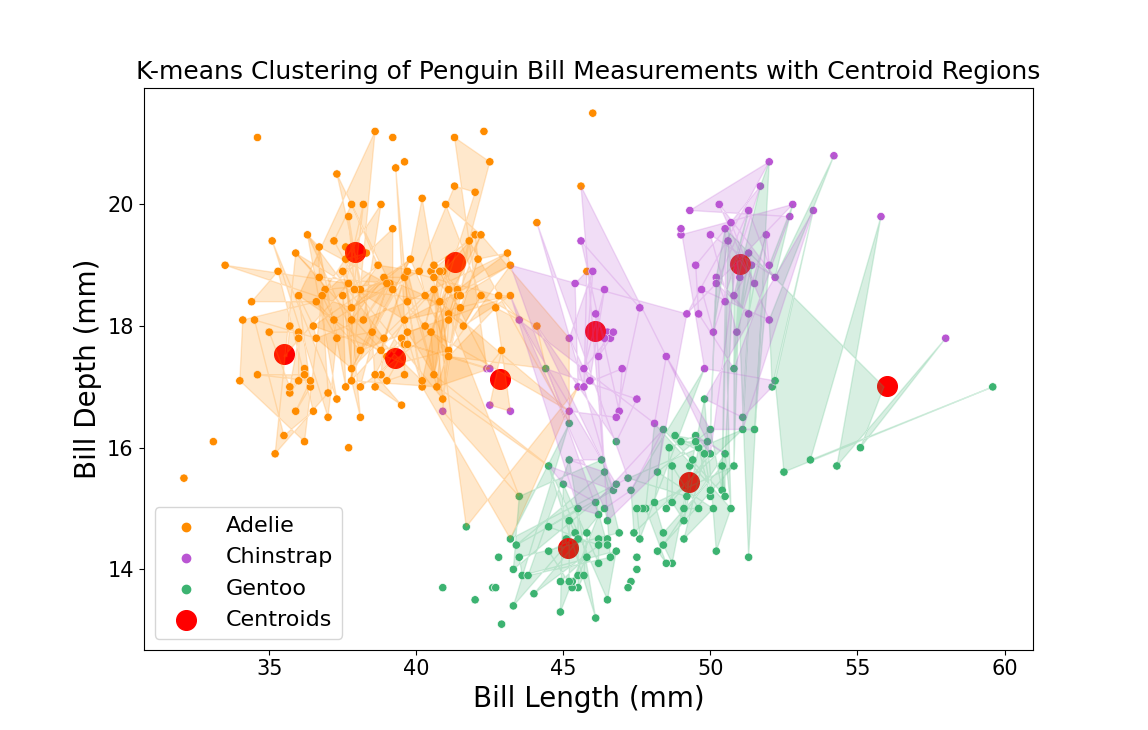
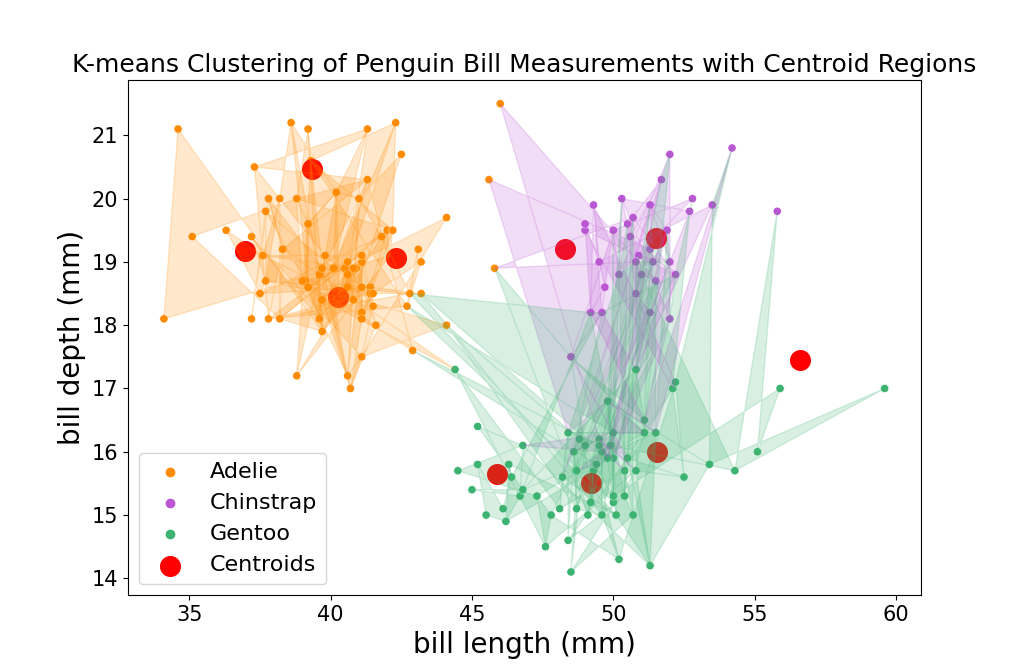
kmeans sex and plotting labels

diff --git a/kmeans/kmeans elbow and silhouette.py b/kmeans/kmeans elbow and silhouette.py
@@ -65,8 +65,8 @@ fig, axs = plt.subplots(1, 2, figsize=(14, 6))
 for species, color in custom_palette.items():
     points = features_train[labels_train == species]
     axs[0].scatter(points[:, 0], points[:, 1], c=color, label=f'{species}')
-axs[0].set_xlabel('Bill Length (scaled)')
-axs[0].set_ylabel('Bill Depth (scaled)')
+axs[0].set_xlabel('bill length (scaled)')
+axs[0].set_ylabel('bill depth (scaled)')
 axs[0].set_title('Training Set Clusters')
 axs[0].legend()
 
@@ -137,8 +137,8 @@ for k in range(1, K+1):
 # Plot elbow plot
 plt.figure(figsize=(10,6))
 plt.plot(range(1, K+1), inertias, 'bx-')
-plt.xlabel('k (Number of clusters)')
-plt.ylabel('Sum of squared distances (Inertia)')
+plt.xlabel('k (number of clusters)')
+plt.ylabel('sum of squared distances (inertia)')
 plt.title('Elbow Method For Optimal k')
 plt.show()
 temp_inertias = inertias
@@ -378,9 +378,9 @@ print(inertias)
 # Plot elbow plot
 plt.figure(figsize=(10,6))
 plt.plot(range(1, K+1), temp_inertias, 'bx-')
-plt.xlabel('k (Number of clusters)')
-plt.ylabel('Sum of squared distances (Inertia)')
-plt.title('Elbow Method For Optimal k')
+plt.xlabel('k (number of clusters)')
+plt.ylabel('sum of squared distances (inertia)')
+plt.title('elbow Method For Optimal k')
 plt.show()
 
 
@@ -399,8 +399,8 @@ for k in k_values:
 plt.figure(figsize=(8, 6))
 plt.plot(k_values, silhouette_scores, marker='o')
 plt.title('Silhouette Scores for Various Numbers of Clusters')
-plt.xlabel('Number of Clusters, k')
-plt.ylabel('Silhouette Score')
+plt.xlabel('number of clusters, k')
+plt.ylabel('silhouette score')
 plt.xticks(k_values)
 plt.grid(True)
 plt.show()
@@ -420,15 +420,15 @@ fig, ax1 = plt.subplots()
 ax1.plot(x1, y1, 'b-', marker='o')
 ax1.tick_params(axis='y', labelsize=16, colors='blue')
 ax1.tick_params(axis='x', labelsize=16)
-ax1.set_xlabel('Number of clusters (k)', fontsize=20)
-ax1.set_ylabel('Elbow method intertia', color='b', fontsize=20)
+ax1.set_xlabel('number of clusters (k)', fontsize=20)
+ax1.set_ylabel('elbow method intertia', color='b', fontsize=20)
 
 
 # Create secondary y-axis and plot y2 data
 ax2 = ax1.twinx()
 ax2.plot(x2, y2, 'g-', marker='o')
 ax2.tick_params(axis='y', labelsize=16, colors='green')
-ax2.set_ylabel('Silhouette scores', color='g', fontsize=20)
+ax2.set_ylabel('silhouette scores', color='g', fontsize=20)
 
 plt.show()
 
@@ -496,8 +496,8 @@ def plot_silhouette_diagrams(X, range_n_clusters):
             y_lower = y_upper + 10  # 10 for the 0 samples
         
         ax.set_title(f"Silhouette analysis for KMeans clustering on sample data with n_clusters = {n_clusters}")
-        ax.set_xlabel("The silhouette coefficient values")
-        ax.set_ylabel("Cluster label")
+        ax.set_xlabel("the silhouette coefficient values")
+        ax.set_ylabel("cluster label")
         
         # The vertical line for average silhouette score of all the values
         ax.axvline(x=silhouette_avg, color="red", linestyle="--")

diff --git a/kmeans/kmeans.py b/kmeans/kmeans.py
@@ -37,7 +37,7 @@ print(df.head())
 # %%
 # Get a dataframe of features
 features_unscaled = df[['bill_length_mm', 'bill_depth_mm', 'flipper_length_mm', 'body_mass_g']]
-features_unscaled = df[['bill_length_mm', 'bill_depth_mm', 'flipper_length_mm']]
+# features_unscaled = df[['bill_length_mm', 'bill_depth_mm', 'flipper_length_mm']]
 
 # features_unscaled = df[['bill_length_mm', 'bill_depth_mm']]
 labels = df['species']

diff --git a/code/main.py b/code/main.py
@@ -52,7 +52,7 @@ clean_df = clean(df)
 # num_sex(clean_df, custom_colors)
 
 # show the species on each of the islands where the penguins live
-# islands(clean_df, custom_colors)
+islands(clean_df, custom_colors)
 
 # is the island a cofounding factor in altering mass/size of pengiun?
 # island_confounding(clean_df)

diff --git a/code/islands.py b/code/islands.py
@@ -14,7 +14,7 @@ def islands(local_df, custom_colors):
 
   plt.figsize=(1,1)  
   plt.xlabel(" ", fontsize = 14)
-  plt.ylabel("Number of species", fontsize = 14)
+  plt.ylabel("number of species", fontsize = 14)
   plt.title("Species distribution for each island", fontsize = 14)
 
   # modify tick marks

diff --git a/code/knn.py b/code/knn.py
@@ -92,6 +92,9 @@ def knn(local_df):
     # divide into training and testing sets
     X_train, X_test, y_train, y_test = train_test_split(X, y, test_size=0.2, random_state=random_state)
 
+
+
+
     # choose a model
     model = KNeighborsClassifier()
 
